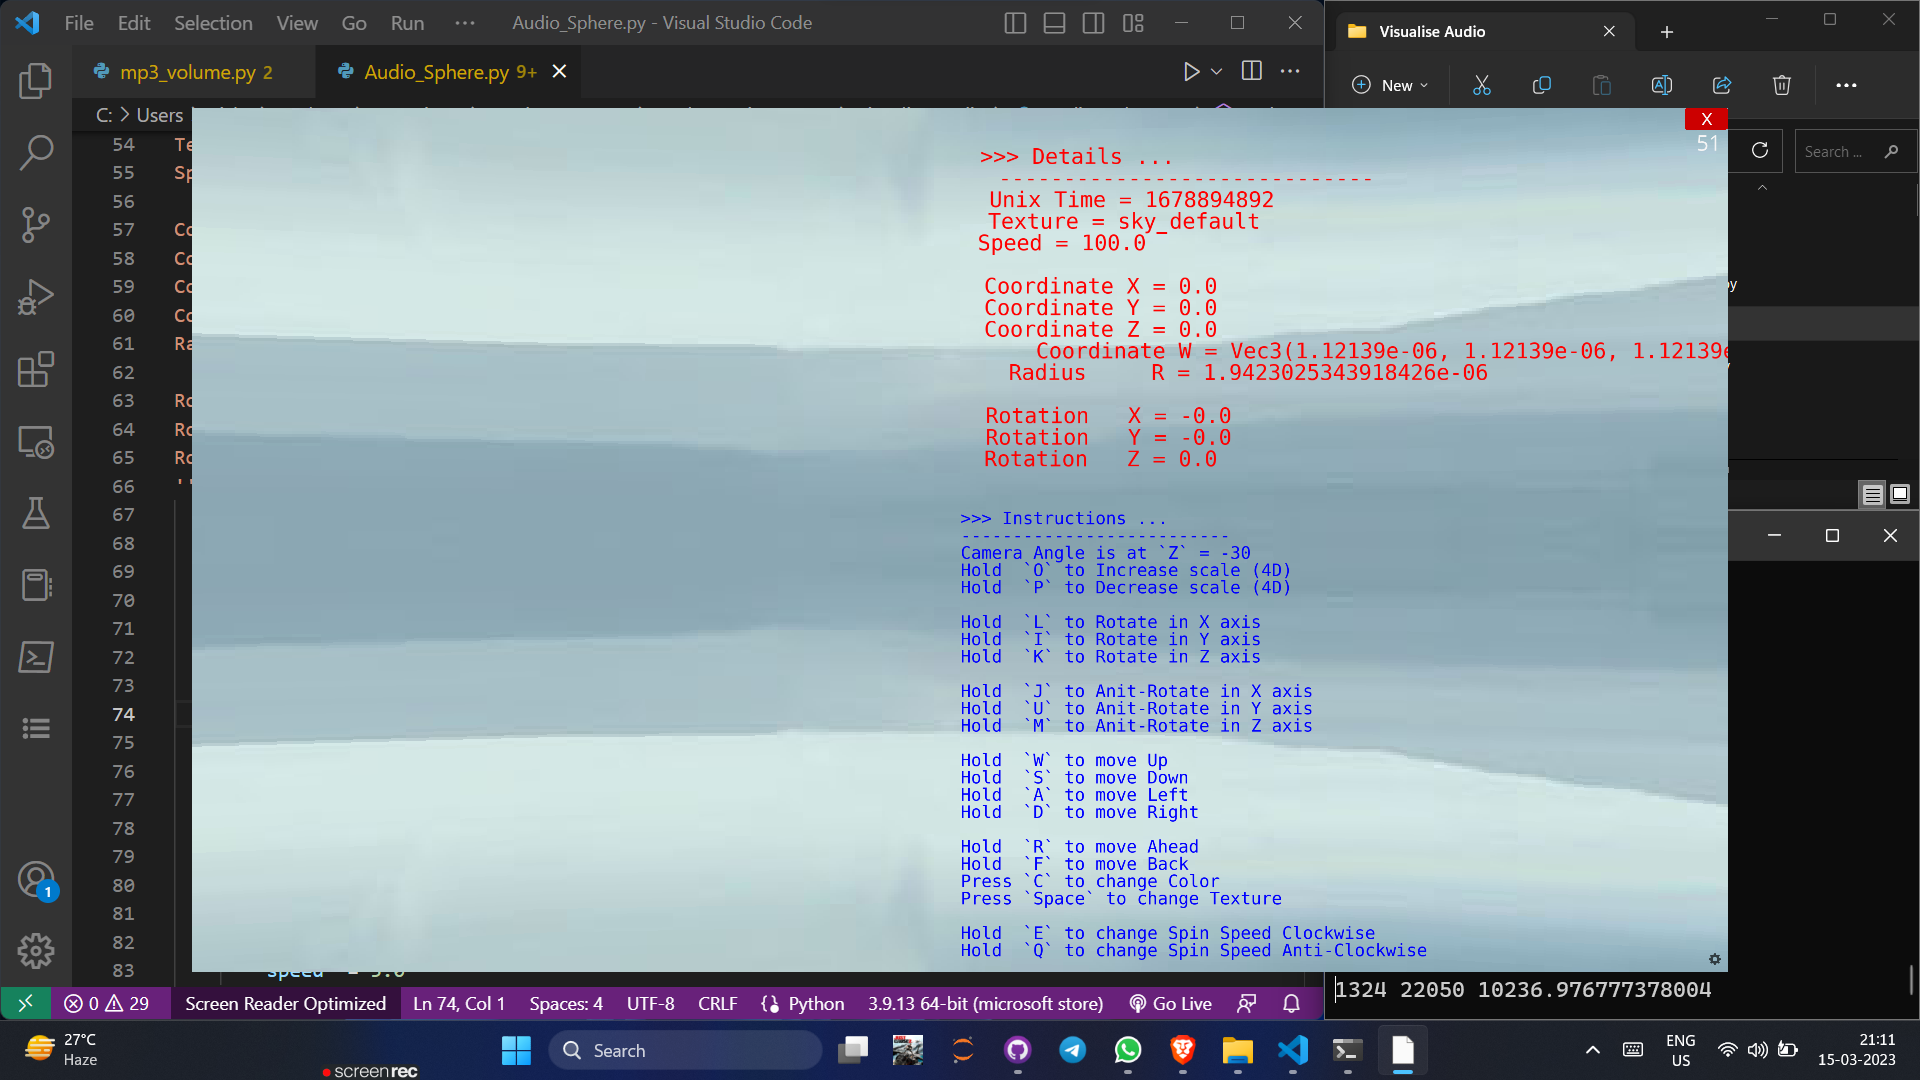
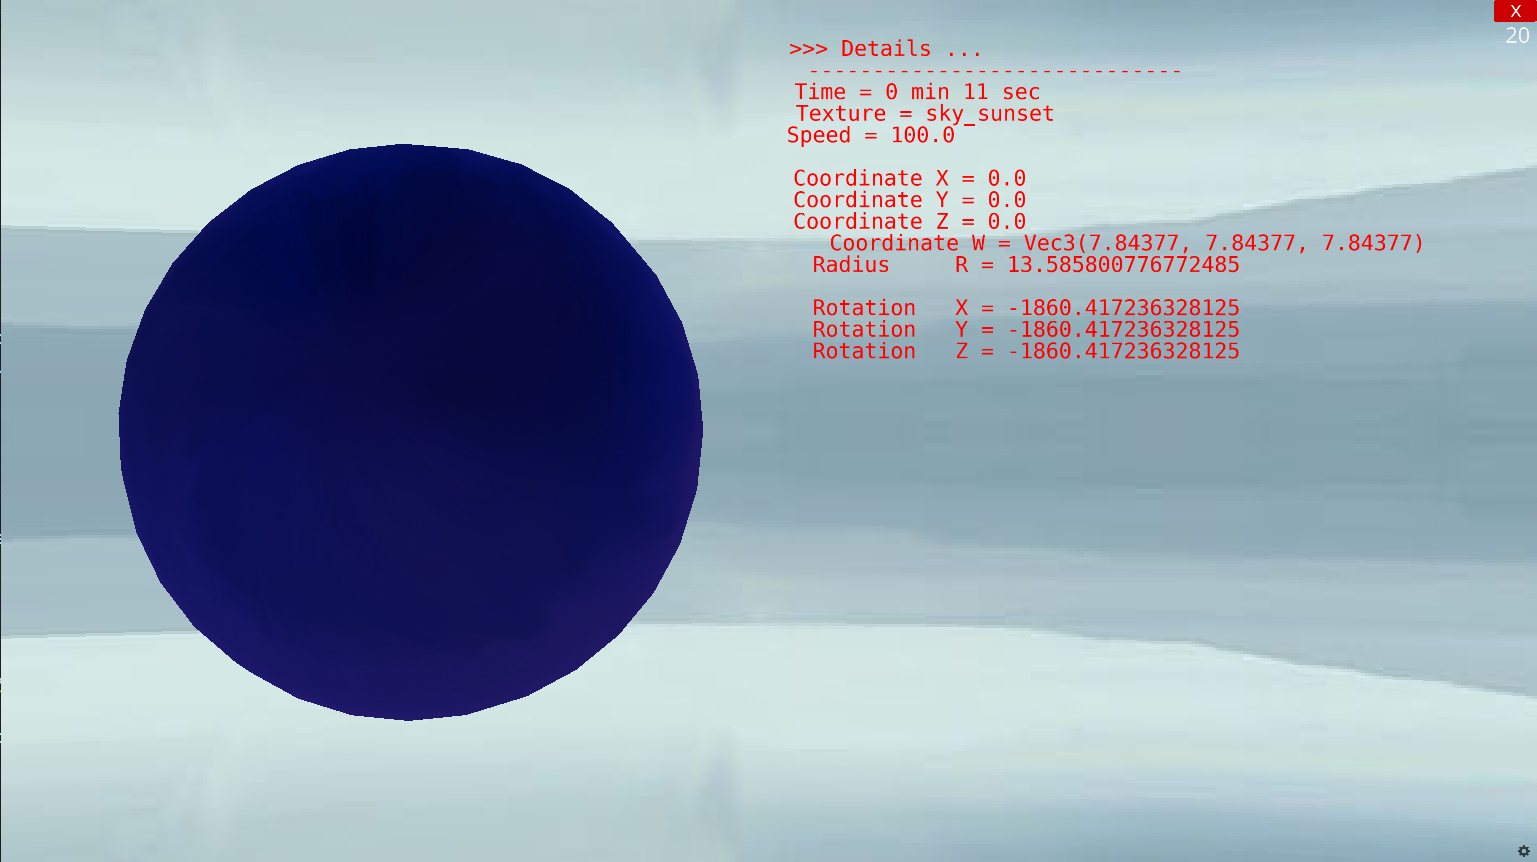
video recorded

diff --git a/Implementing IDEAS/Visualise Audio/Audio_Sphere.py b/Implementing IDEAS/Visualise Audio/Audio_Sphere.py
@@ -3,8 +3,12 @@ from ursina import *
 from random import randint
 import time
 
+import os
+filename = 'Imagine Dragons Believer.mp3'
+os.system(filename)
+
 import librosa
-y, sr = librosa.load('Imagine Dragons Believer.mp3')
+y, sr = librosa.load(filename)
 t1 = int(time.time())
 i=0
 
@@ -14,7 +18,6 @@ camera.position = (5,0,-30)
 c=0
 opt_texture = [
     'sky_default',
-    'circle_outlined',
     'brick',
     'grass',
     'heightmap_1',
@@ -24,35 +27,24 @@ opt_texture = [
     'reflection_map_3',
     'shore',
     'sky_sunset',
-    'ursina_logo',
-    'ursina_wink_0000',
-    'ursina_wink_0001',
     'vertical_gradient',
     'white_cube',
 ]
-
-def input(key):
-    global c
-
-    if key == 'c':
-        red = randint(0,255)
-        green = randint(0,255)
-        blue = randint(0,255)
-        cube.color = color.rgb(red, green, blue)
-
-    if key == 'space':
-        c+=1
-
 
 def update():
     global speed, deatils, cube, c, i
     t2 = int(time.time())
     cube.texture = opt_texture[t2%len(opt_texture)]
 
+    red = randint(0,255)
+    green = randint(0,255)
+    blue = randint(0,255)
+    cube.color = color.rgb(red, green, blue)
+    
     deatils.text = f'''
 >>> Details ...
 -----------------------------
-Time = {(t2-t1)/60} min {(t2-t1)%60} sec
+Time = {(t2-t1)//60} min {(t2-t1)%60} sec
 Texture = {str(cube.texture).split('.')[0]}
 Speed = {speed}
 
@@ -84,76 +76,16 @@ Rotation   Z = {cube.rotation_z}
     if held_keys['q']:
         speed -= 5.0
 
-    if held_keys['d']:
-        cube.x += time.dt
-    if held_keys['w']:
-        cube.y += time.dt
-    if held_keys['a']:
-        cube.x -= time.dt
-    if held_keys['s']:
-        cube.y -= time.dt
-    if held_keys['r']:
-        cube.z += time.dt*20
-    if held_keys['f']:
-        cube.z -= time.dt*20
-
-    if held_keys['j']:
-        cube.rotation_x -= time.dt*speed
-    if held_keys['u']:
-        cube.rotation_y -= time.dt*speed
-    if held_keys['m']:
-        cube.rotation_z -= time.dt*speed
-
-    if held_keys['l']:
-        cube.rotation_x += time.dt*speed
-    if held_keys['i']:
-        cube.rotation_y += time.dt*speed
-    if held_keys['k']:
-        cube.rotation_z += time.dt*speed
+    cube.rotation_x -= time.dt*speed
+    cube.rotation_y -= time.dt*speed
+    cube.rotation_z -= time.dt*speed
 
 speed=100.0
 cube = Entity(model='sphere',
-              color=color.yellow,
+              color=color.red,
               texture='sky_sunset',
-              scale=3,
+              scale=6,
               )
-
-instructions = '''
->>> Instructions ...
---------------------------
-Camera Angle is at `Z` = -30
-Hold  `O` to Increase scale (4D)
-Hold  `P` to Decrease scale (4D)
-
-Hold  `L` to Rotate in X axis
-Hold  `I` to Rotate in Y axis
-Hold  `K` to Rotate in Z axis
-
-Hold  `J` to Anit-Rotate in X axis
-Hold  `U` to Anit-Rotate in Y axis
-Hold  `M` to Anit-Rotate in Z axis
-
-Hold  `W` to move Up
-Hold  `S` to move Down
-Hold  `A` to move Left
-Hold  `D` to move Right
-
-Hold  `R` to move Ahead
-Hold  `F` to move Back
-Press `C` to change Color
-Press `Space` to change Texture
-
-Hold  `E` to change Spin Speed Clockwise
-Hold  `Q` to change Spin Speed Anti-Clockwise
-'''
-
-Text(
-instructions, 
-scale=.8,
-origin=(-.5, .4),
-font='VeraMono.ttf', 
-color=color.blue,
-) 
 
 deatils = Text(origin=(-.6, -.7),
                 font='VeraMono.ttf', 
@@ -161,5 +93,5 @@ deatils = Text(origin=(-.6, -.7),
                 ) 
 
 Sky()
-# window.fullscreen = 1
+window.fullscreen = 1
 app.run()
